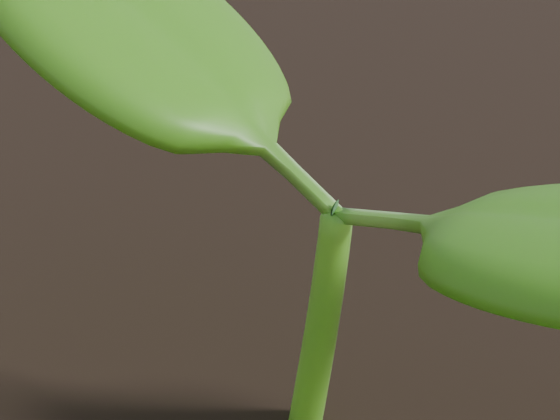
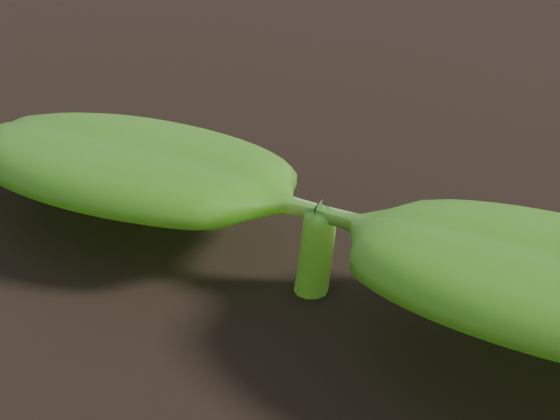
UNDERSOIL: video-observed nutation (CC BY time-lapse), straighter true-leaf petiole
Claude-Session: https://claude.ai/code/session_01HXHWaeyj425ipGMnohy3Vo

diff --git a/undersoil/src/game/surface.ts b/undersoil/src/game/surface.ts
@@ -135,9 +135,11 @@ export async function buildSurface(renderer: THREE.WebGPURenderer, base: string,
       blend(linfl, ldict, LEAF_STAGES, key(g, [[0, 0], [0.66, 0], [0.76, 1], [0.88, 2], [1, 3]]));
       leaf.visible = g > 0.66;
       uGreen.value = Math.max(0, Math.min(1, (g - 0.30) / 0.36));
-      // 首振り（回旋運動）：伸びている茎の先は、小さく円を描くように揺れながら立ち上がる。伸びが止まると収まる
-      const nut = Math.sin(Math.min(1, Math.max(0, (g - 0.24) / 0.5)) * Math.PI) * 0.055;
-      holder.rotation.x = Math.sin(g * 46) * nut; holder.rotation.z = Math.cos(g * 46) * nut;
+      // 首振り（回旋運動）：早回し動画（CC BY 3.0、Internet Archive の接写映像）で確かめた動き。
+      // 芽が出てから子葉が開くまでの間、かぎ形の先が左右にゆっくり大きく揺れ（約 3 往復）、開ききると収まる
+      const w = Math.max(0, Math.min(1, (g - 0.22) / 0.46)), env = Math.sin(w * Math.PI) ** 0.8;
+      const ph = w * Math.PI * 2 * 3;
+      holder.rotation.z = Math.sin(ph) * 0.12 * env; holder.rotation.x = Math.sin(ph * 0.5 + 0.7) * 0.05 * env;
       // 胚軸が土を押し上げる：芽の出る所の粒が、盛り上がって外へ退く
       const push = Math.max(0, Math.min(1, (g - 0.16) / 0.16));
       for (const L of lifts) { L.idx.forEach((ii, k) => { L.base[k].decompose(tp, tq, ts); const d = Math.hypot(tp.x, tp.z), w = Math.max(0, 1 - d / 3.2) * push; if (d > 1e-3) { tp.x += (tp.x / d) * w * 0.9; tp.z += (tp.z / d) * w * 0.9; } tp.y += w * 0.45; L.mesh.setMatrixAt(ii, tmp.compose(tp, tq, ts)); }); L.mesh.instanceMatrix.needsUpdate = true; }

diff --git a/undersoil/assets/blender/clover_seedling.py b/undersoil/assets/blender/clover_seedling.py
@@ -148,19 +148,19 @@ def build_leaf(grow, unfold):
     """grow: 0=まだない、1=伸びきった。unfold: 0=中央の葉脈で二つ折り、1=開いた（浅い折れ目は残る）"""
     pts, _, frames = axis(1, HYP_FINAL, 0.0, 1.0); node, (td, tn, tb) = pts[-1], frames[-1]
     V = []
-    pl = LEAF_PET * grow; lean = math.radians(16) * grow
+    pl = LEAF_PET * grow; lean = math.radians(6) * grow
     pd = (td * math.cos(lean) + tb * math.sin(lean)).normalized()                # 葉柄は、2枚の子葉の間から、少し傾いて立つ
     sx = pd.cross(tn).normalized();
     for i in range(LP + 1):
-        s = i / LP; c = node + pd * (pl * s) + tb * (pl * 0.16 * math.sin(s * math.pi * 0.5) ** 2) - td * (pl * 0.10 * s * s)
+        s = i / LP; c = node + pd * (pl * s) + tb * (pl * 0.05 * math.sin(s * math.pi * 0.5) ** 2) - td * (pl * 0.04 * s * s)
         r = 0.085 * (1 - 0.3 * s) * (0.3 + 0.7 * grow)
         for k in range(LSIDES):
             a = 2 * math.pi * k / LSIDES; V.append(c + (tn * math.cos(a) + sx * math.sin(a)) * r)
-    top = node + pd * pl + tb * (pl * 0.16) - td * (pl * 0.10)
+    top = node + pd * pl + tb * (pl * 0.05) - td * (pl * 0.04)
     Ls = LEAF_L * (0.12 + 0.88 * grow) * (0.35 + 0.65 * unfold); Ws = LEAF_W * 0.5 * (0.12 + 0.88 * grow) * (0.4 + 0.6 * unfold)
     tiltb = math.radians(20 + 52 * unfold) * grow                                # 葉身は葉柄の先で外へ倒れ、表が斜め上を向く
     bd = (pd * math.cos(tiltb) + tb * math.sin(tiltb)).normalized(); bn = (pd * math.sin(tiltb) - tb * math.cos(tiltb)).normalized()   # 葉の表の向き。両側は、中央の葉脈から上へ浅く持ち上がる（V 字）
-    fold = math.radians(86 - 58 * unfold)                                        # 片側の持ち上がり角（閉じ 86° → 開き 16°）
+    fold = math.radians(86 - 64 * unfold)                                        # 片側の持ち上がり角（閉じ 86° → 開き 16°）
     for j in range(LV + 1):
         x = j / LV
         outline = (max(0.0, 1 - abs(2 * x - 1) ** 1.8) ** 0.5) * (0.9 + 0.2 * (1 - x))   # 腎臓形（幅が長さより広い）

diff --git a/undersoil/Docs/REFERENCE/seedling-realism.md b/undersoil/Docs/REFERENCE/seedling-realism.md
@@ -229,3 +229,13 @@ Three.js（TSL）と Blender の手続き的な作り方への指示として書
 - 色は写真ごとのホワイトバランス・露出に左右される。特に Salicyna の 2020 年の写真は強い日差しで黄みが強い。表の値は「幅」として扱うこと。
 - 子葉の細かいきらめきが、表皮の細胞の凹凸なのか、細かい水滴なのかは、写真からは判別できなかった（両方ありうる）。描き方は同じ（点状の鋭いハイライト）でよい。
 - Commons の検索 API も強く制限されていたため、検索はウェブ版の検索ページで行った。見落としがありうる（特に「Keimling」「芽生え」などドイツ語・日本語の検索はほとんど結果が出なかった）。
+
+
+## 追記（2026-11-22）：早回し動画で確かめた動き
+Wikimedia の動画サーバーは 429 のまま取得できなかったため、Internet Archive の CC BY 3.0 の接写の早回し動画を取得した（`build-cache/ref/realism/d_video/`、出所は SOURCES.tsv）。
+植物はシロツメクサではない（毛のある胚軸を持つ双子葉植物。種名は不明）。子葉が開く直前〜開き始めの区間（約 30 秒）を 16 コマ見た。
+- かぎ形の先は、止まらずに左右へ大きく揺れる（首振り）。クリップ全体の約 1/4 ごとに 1 往復。揺れ幅は、子葉の長さの 3〜4 割ほど。
+- 子葉の頭は、揺れながら少しずつ持ち上がる。2 枚の子葉は、下を向いたまま、すき間がゆっくり開く。
+- 逆光では、子葉が明るい黄緑に透ける。
+→ ゲームの首振りを「芽が出てから子葉が開くまでに約 3 往復、左右に約 ±7°、開ききると収まる」に変えた。
+まだ確かめていないこと：シロツメクサそのものの動き、かぎがまっすぐになる速さ、本葉が伸びる速さ。

diff --git a/undersoil/Docs/HANDOFF.md b/undersoil/Docs/HANDOFF.md
@@ -55,7 +55,7 @@
 - 「まだ AI っぽい。写真や動画を参考に作り直して」（iPhone Air で確認）→ 写真49点を集めて比較（`REFERENCE/seedling-realism.md`、写真は `build-cache/ref/realism/`。公開しない）。地上の場面を作り直した：
   連続した地面（`src/game/ground.ts`。細かい砂の2段のセル模様、くぼみの暗さ）、土のかたまりは 1/4、白っぽい昼の光で明暗の幅を広げた、芽を低く（子葉は地面すれすれに水平）、
   写真から測った色（子葉 #9FA576 前後、出たばかりは黄、本葉は黄緑）、子葉の小さく鋭いきらめき、カメラは 55°見下ろしで固定、落ちものを減らし芽の上を横切らない。
-  **未対応**：早回し動画は Wikimedia の配信制限で取得できず、動き（各段階の時間配分、首振り、子葉の開き方）は未検証。本葉の形（腎臓形・先のくぼみ）はまだ写真と違う。
+  早回し動画は Wikimedia が 429 のままなので、Internet Archive の CC BY 3.0 の接写動画で首振りを確かめて反映した（`REFERENCE/seedling-realism.md` の追記）。本葉の柄をまっすぐにした。**未対応**：シロツメクサそのものの動画はない。
 - 「iPhone で全画面にできない？」→ iPhone の Safari にはページの全画面がない。ホーム画面に追加すると全画面で開く（manifest、アイコン、`apple-mobile-web-app-capable`）。「全画面」ボタンでその手順を案内。数秒さわらないと操作パネルが薄くなる。横向きの小さな画面ではボタンを小さく。
 - 土の中の絵は「いい」との評価。Quest 3 の確認は後日（持ち主）。
 
